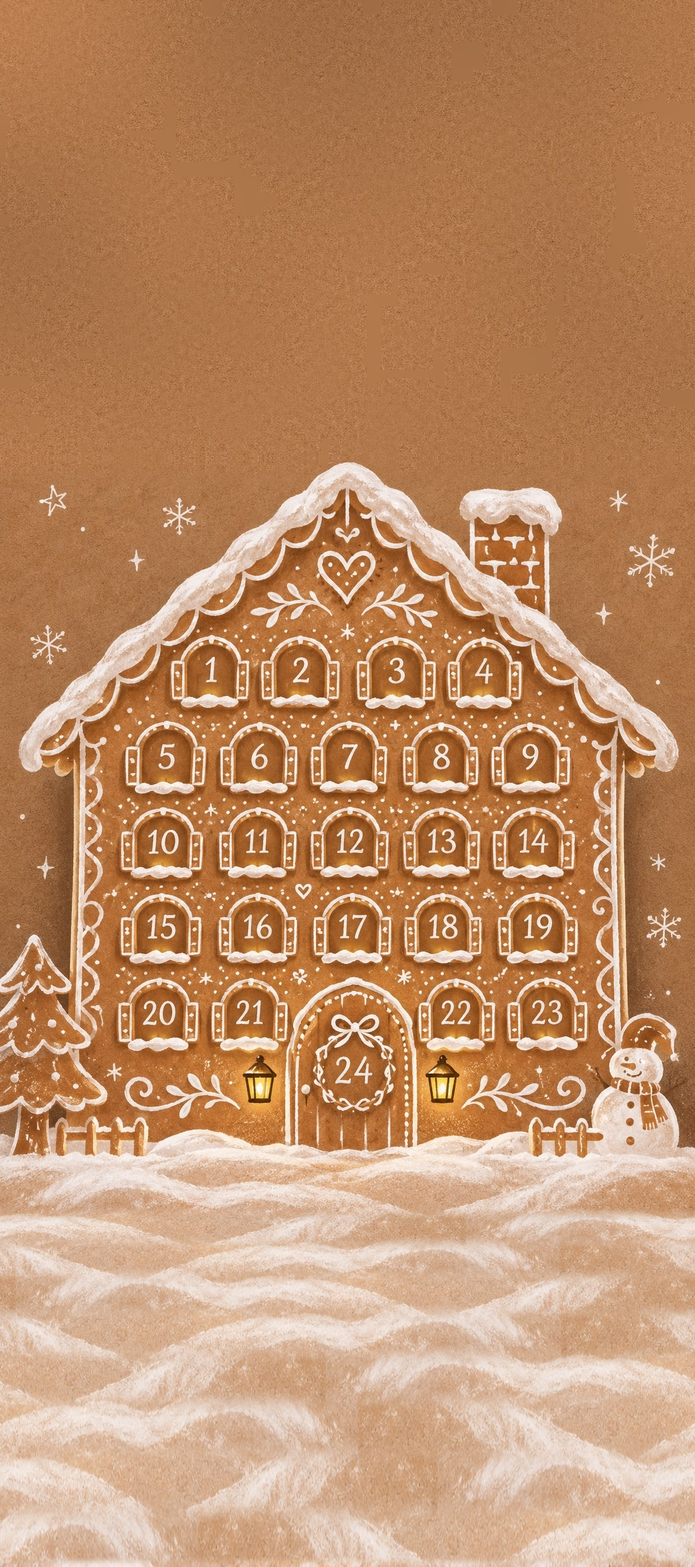
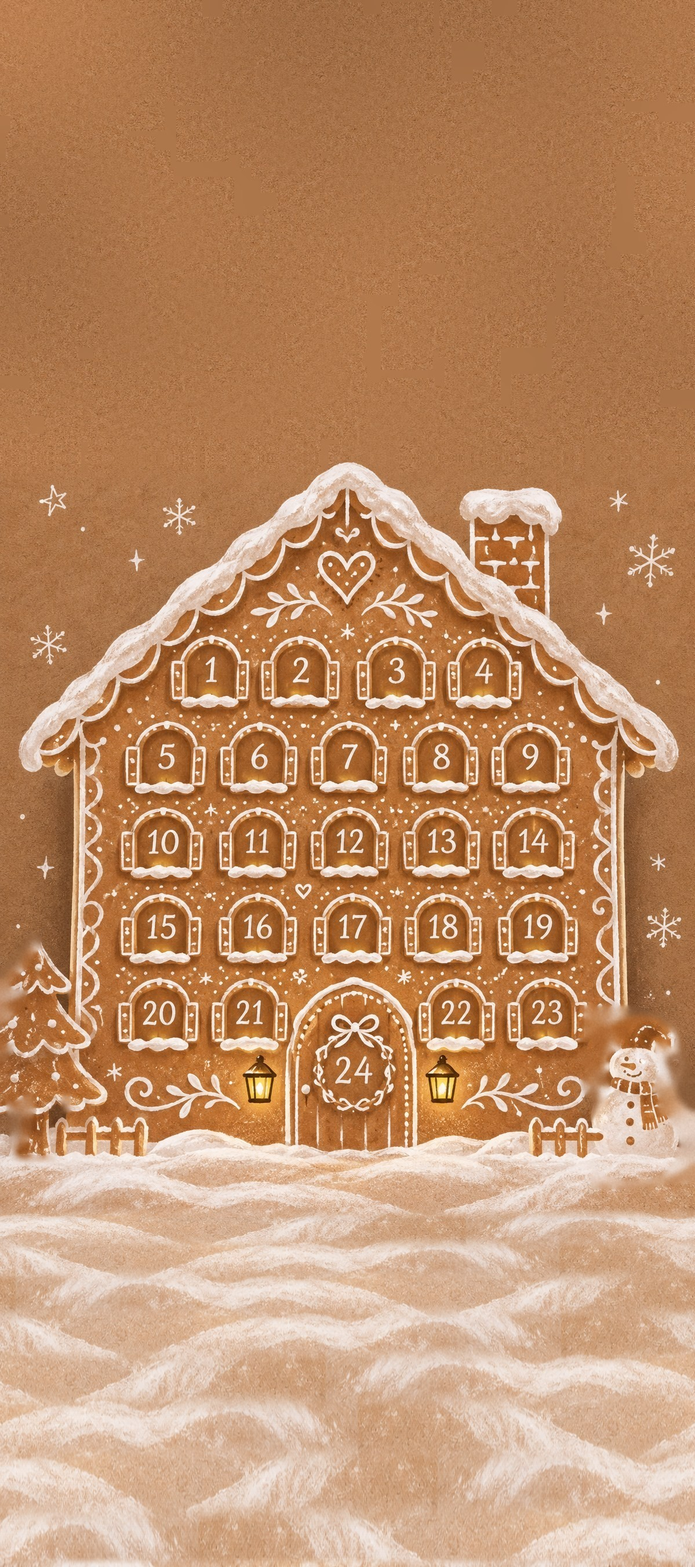
Neue Tanne und Schneemann: Tanne wackelt, Schneemann winkt erschrocken
Claude-Session: https://claude.ai/code/session_01Th1ZwhDaFACmJguCpPspif

Changed region(s): [[0.8332, 0.6218, 1.0, 0.7772], [0.0, 0.5907, 0.0617, 0.7461]]

diff --git a/index.html b/index.html
@@ -160,6 +160,21 @@
     80%  { transform: translate(-50%, calc(-50% - var(--h) * .25)); }
     100% { transform: translate(-50%, -50%); }
   }
+  /* Tanne und Schneemann als eigene Figuren */
+  .fig { position: absolute; pointer-events: none; z-index: 2; }
+  .fig img { position: absolute; display: block; }
+  .fig-tree { transform-origin: 50% 96%; }
+  .fig-tree.go { animation: treeshake 1s ease-out; }
+  @keyframes treeshake {
+    0% { transform: rotate(0); } 10% { transform: rotate(-4deg); } 26% { transform: rotate(3.5deg); }
+    42% { transform: rotate(-2.5deg); } 58% { transform: rotate(1.6deg); } 74% { transform: rotate(-.8deg); } 100% { transform: rotate(0); }
+  }
+  .fig-sm .angst { opacity: 0; transition: opacity .15s; }
+  .fig-sm.scared .angst { opacity: 1; }
+  .fig-sm.scared .arm-l { animation: wave-l .5s ease-in-out 5 alternate; }
+  .fig-sm.scared .arm-r { animation: wave-r .5s ease-in-out 5 alternate; }
+  @keyframes wave-l { from { transform: rotate(8deg); } to { transform: rotate(-28deg); } }
+  @keyframes wave-r { from { transform: rotate(-8deg); } to { transform: rotate(28deg); } }
   .hint { position: fixed; left: 50%; bottom: calc(env(safe-area-inset-bottom) + 28px);
     transform: translateX(-50%) translateY(20px); opacity: 0; transition: all .4s ease;
     background: #f2e3cb; color: #3a2414; font-family: 'EB Garamond', Georgia, serif; font-size: 18px;
@@ -326,7 +341,8 @@ const LAYOUTS = {
     img: 'haus-voll.jpg', W: 1199, H: 2702, OFF: 790,
     win: [11, 9.5 * 1312 / 2702], win24: [16, 13 * 1312 / 2702],
     glow: [16, 13 * 1312 / 2702], glow24: [22, 17 * 1312 / 2702],
-    snowman: [1098, 1080, 165, 250], mouth: [1075, 1040], tree: [92, 1010, 185, 390], treeTop: [95, 900], lamps: [[445, 1095, 70, 110], [754, 1083, 70, 110]], chimney: [875, 150, 170, 210], smoke: [878, 45], heart: { c: [598, 206], s: [108, 100], hs: [116, 108], img: 'handy' }, fences: [{"slats": [[107.5, 1167.5, 23], [157.5, 1167.5, 29], [200.5, 1167.5, 29], [243.5, 1167.5, 31]], "patch": [177.5, 1167.5, 171]}, {"slats": [[923.5, 1168.0, 31], [966.5, 1168.0, 31], [1003.5, 1168.0, 31]], "patch": [963.5, 1168.0, 119]}], drift: [[5, 35], [1.3, 2.1]],
+    snowman: [1099, 1107, 200, 290], mouth: [1058, 1062], tree: [84, 1012, 259, 400], treeTop: [110, 880],
+    figTree: [-45, 812, 400], figSnow: [999, 962, 290], lamps: [[445, 1095, 70, 110], [754, 1083, 70, 110]], chimney: [875, 150, 170, 210], smoke: [878, 45], heart: { c: [598, 206], s: [108, 100], hs: [116, 108], img: 'handy' }, fences: [{"slats": [[107.5, 1167.5, 23], [157.5, 1167.5, 29], [200.5, 1167.5, 29], [243.5, 1167.5, 31]], "patch": [177.5, 1167.5, 171]}, {"slats": [[923.5, 1168.0, 31], [966.5, 1168.0, 31], [1003.5, 1168.0, 31]], "patch": [963.5, 1168.0, 119]}], drift: [[5, 35], [1.3, 2.1]],
     windows: {
       1:[365,370], 2:[518,370], 3:[683,370], 4:[835,370],
       5:[288,515], 6:[447,515], 7:[602,515], 8:[762,515], 9:[916,515],
@@ -344,7 +360,8 @@ const LAYOUTS = {
   pc: {
     img: 'haus-pc.jpg', W: 1672, H: 941, OFF: 0,
     win: [6.3, 10.1], win24: [9, 20], glow: [9, 15], glow24: [13, 25],
-    snowman: [1232, 765, 150, 225], mouth: [1212, 720], tree: [410, 715, 180, 300], treeTop: [440, 600], lamps: [[717, 779, 70, 95], [958, 774, 70, 95]], chimney: [1045, 135, 135, 195], smoke: [1045, 55], heart: { c: [834.5, 149], s: [81, 76], hs: [89, 84], img: 'pc' }, fences: [{"slats": [[447.5, 835.5, 29], [487.5, 835.5, 29], [522.5, 835.5, 29], [560.5, 835.5, 29]], "patch": [504.0, 835.5, 150]}, {"slats": [[1075.5, 832.5, 29], [1113.5, 832.5, 31], [1151.5, 832.5, 31]], "patch": [1114.0, 832.5, 114]}], drift: [[90, 170], [0.2, 0.45]],
+    snowman: [1236, 767, 150, 217], mouth: [1215, 735], tree: [404, 717, 206, 318], treeTop: [440, 600],
+    figTree: [301, 558, 318], figSnow: [1161, 659, 217], lamps: [[717, 779, 70, 95], [958, 774, 70, 95]], chimney: [1045, 135, 135, 195], smoke: [1045, 55], heart: { c: [834.5, 149], s: [81, 76], hs: [89, 84], img: 'pc' }, fences: [{"slats": [[447.5, 835.5, 29], [487.5, 835.5, 29], [522.5, 835.5, 29], [560.5, 835.5, 29]], "patch": [504.0, 835.5, 150]}, {"slats": [[1075.5, 832.5, 29], [1113.5, 832.5, 31], [1151.5, 832.5, 31]], "patch": [1114.0, 832.5, 114]}], drift: [[90, 170], [0.2, 0.45]],
     windows: {
       1:[665,268], 2:[778,268], 3:[893,268], 4:[1005,268],
       5:[610,372], 6:[722,372], 7:[836,372], 8:[950,372], 9:[1063,372],
@@ -432,7 +449,7 @@ findImage().then(src => {
     });
 
     // Schneemann und Tanne zum Antippen: sie sagen etwas
-    function talker(label, box, anchor, html, side) {
+    function talker(label, box, anchor, html, side, onTap) {
       const [cx, cy, w, h] = box, [l, t] = px(cx, cy);
       const btn = document.createElement('button');
       btn.className = 'snowman'; btn.setAttribute('aria-label', label);
@@ -448,12 +465,44 @@ findImage().then(src => {
         document.querySelectorAll('.bubble.show').forEach(o => o !== bubble && o.classList.remove('show'));
         bubble.classList.remove('show'); void bubble.offsetWidth; bubble.classList.add('show');
         clearTimeout(timer); timer = setTimeout(() => bubble.classList.remove('show'), 4200);
+        if (onTap) onTap();
       };
     }
+    // Tanne als eigene Figur (wackelt beim Antippen)
+    const box = (x, y, w, h) => ({ left: (x / L.W * 100) + '%', top: ((y + L.OFF) / L.H * 100) + '%',
+                                   width: (w / L.W * 100) + '%', height: (h / L.H * 100) + '%' });
+    const [tx, ty, th] = L.figTree, tw = th * 840 / 1297;
+    const tree = document.createElement('img');
+    tree.className = 'fig fig-tree'; tree.alt = ''; tree.src = 'tanne.webp';
+    Object.assign(tree.style, box(tx, ty, tw, th));
+    wrap.appendChild(tree);
+    const shake = () => { tree.classList.remove('go'); void tree.offsetWidth; tree.classList.add('go'); };
+
+    // Schneemann als eigene Figur: Arme und erschrockenes Gesicht
+    const [sx, sy, sh] = L.figSnow, SW = 855, SH = 1242, sw = sh * SW / SH;
+    const sm = document.createElement('div');
+    sm.className = 'fig fig-sm';
+    Object.assign(sm.style, box(sx, sy, sw, sh));
+    const part = (src, cls, x, y, w, h, pivot) => {
+      const e = document.createElement('img'); e.src = src; e.alt = ''; e.className = cls;
+      e.style.left = (x / SW * 100) + '%'; e.style.top = (y / SH * 100) + '%';
+      e.style.width = (w / SW * 100) + '%'; e.style.height = (h / SH * 100) + '%';
+      if (pivot) e.style.transformOrigin = ((pivot[0] - x) / w * 100) + '% ' + ((pivot[1] - y) / h * 100) + '%';
+      sm.appendChild(e);
+    };
+    part('schneemann-arm-l.png', 'arm-l', 0, 451, 185, 215, [168, 648]);
+    part('schneemann-arm-r.png', 'arm-r', 601, 474, 254, 239, [622, 690]);
+    part('schneemann.webp', 'body', 0, 0, SW, SH);
+    part('schneemann-angst.png', 'angst', 267, 302, 196, 226);
+    wrap.appendChild(sm);
+    let scareT;
+    const scare = () => { sm.classList.remove('scared'); void sm.offsetWidth; sm.classList.add('scared');
+      clearTimeout(scareT); scareT = setTimeout(() => sm.classList.remove('scared'), 4200); };
+
     talker('Schneemann', L.snowman, [L.mouth[0] - 18, L.mouth[1] - 30],
-      'Ich spür’ meine Beine nicht.<br>Ich kann meine Beine nicht spüren!!', 'left');
+      'Ich spür’ meine Beine nicht.<br>Ich kann meine Beine nicht spüren!!', 'left', scare);
     talker('Tanne', L.tree, L.treeTop,
-      'Und wer ist der funky aussehende<br>Esel da drüben?', 'right');
+      'Und wer ist der funky aussehende<br>Esel da drüben?', 'right', shake);
 
     // Laternen leuchten beim Antippen kurz heller
     L.lamps.forEach(([cx, cy, w, h], i) => {
